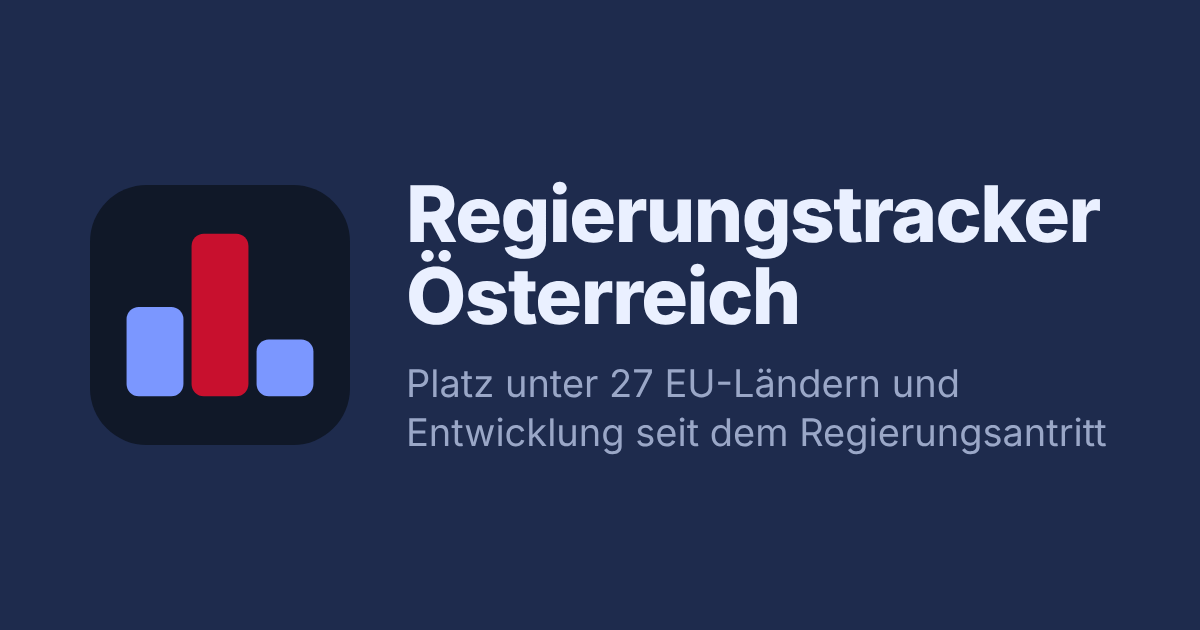
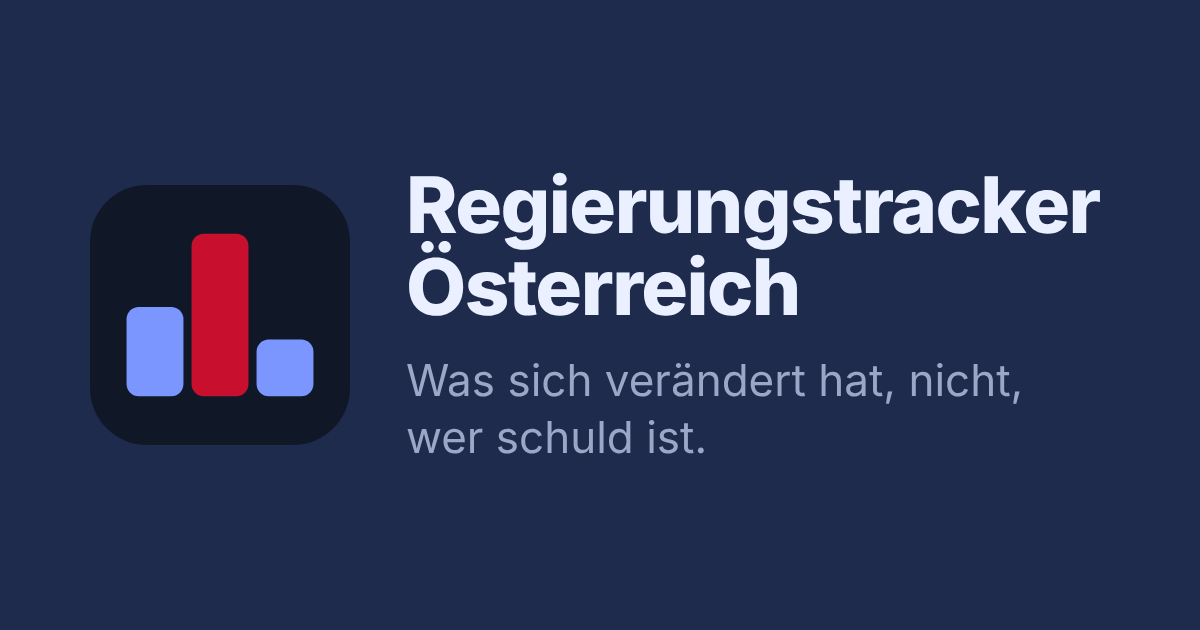
Leitsatz: Was sich verändert hat, nicht, wer schuld ist (Titel, Vorschaubild, Meta)
Claude-Session: https://claude.ai/code/session_01VREGYsAQD5VDTbRsXg6iog

Changed region(s): [[0.3392, 0.2714, 0.925, 0.5127], [0.3392, 0.6635, 0.925, 0.7238], [0.3392, 0.573, 0.8633, 0.6333]]

diff --git a/docs/index.html b/docs/index.html
@@ -11,15 +11,16 @@
 <link rel="apple-touch-icon" href="apple-touch-icon.png">
 <meta property="og:type" content="website">
 <meta property="og:title" content="Regierungstracker Österreich">
-<meta property="og:description" content="Platz unter 27 EU-Ländern und Entwicklung seit dem Regierungsantritt">
+<meta property="og:description" content="Was sich verändert hat, nicht, wer schuld ist. Platz unter 27 EU-Ländern und Entwicklung seit dem Regierungsantritt.">
 <meta property="og:image" content="https://thorusmaximus.github.io/oesterreich-eu-vergleich/vorschau.png">
 <meta name="twitter:card" content="summary_large_image">
-<link rel="stylesheet" href="style.css?v=d86f3418">
+<link rel="stylesheet" href="style.css?v=3637b754">
 </head>
 <body>
 <main>
 <div id="neu"></div>
 <h1 id="h1"><img class="logo" src="favicon.svg" alt="" width="34" height="34"> Regierungstracker Österreich</h1>
+<p class="claim">Was sich verändert hat, nicht, wer schuld ist.</p>
 <p class="frage" id="frage">Wie steht Österreich seit dem Regierungswechsel da?</p>
 <p class="sub" id="sub">Platz unter den EU-Ländern, pro Indikator.</p>
 <div class="zahlen" id="zahlen" hidden></div>

diff --git a/docs/impressum.html b/docs/impressum.html
@@ -10,10 +10,10 @@
 <link rel="apple-touch-icon" href="apple-touch-icon.png">
 <meta property="og:type" content="website">
 <meta property="og:title" content="Regierungstracker Österreich">
-<meta property="og:description" content="Platz unter 27 EU-Ländern und Entwicklung seit dem Regierungsantritt">
+<meta property="og:description" content="Was sich verändert hat, nicht, wer schuld ist. Platz unter 27 EU-Ländern und Entwicklung seit dem Regierungsantritt.">
 <meta property="og:image" content="https://thorusmaximus.github.io/oesterreich-eu-vergleich/vorschau.png">
 <meta name="twitter:card" content="summary_large_image">
-<link rel="stylesheet" href="style.css?v=d86f3418">
+<link rel="stylesheet" href="style.css?v=3637b754">
 </head>
 <body>
 <main>

diff --git a/docs/indikator.html b/docs/indikator.html
@@ -10,10 +10,10 @@
 <link rel="apple-touch-icon" href="apple-touch-icon.png">
 <meta property="og:type" content="website">
 <meta property="og:title" content="Regierungstracker Österreich">
-<meta property="og:description" content="Platz unter 27 EU-Ländern und Entwicklung seit dem Regierungsantritt">
+<meta property="og:description" content="Was sich verändert hat, nicht, wer schuld ist. Platz unter 27 EU-Ländern und Entwicklung seit dem Regierungsantritt.">
 <meta property="og:image" content="https://thorusmaximus.github.io/oesterreich-eu-vergleich/vorschau.png">
 <meta name="twitter:card" content="summary_large_image">
-<link rel="stylesheet" href="style.css?v=d86f3418">
+<link rel="stylesheet" href="style.css?v=3637b754">
 </head>
 <body>
 <main>

diff --git a/docs/methodik.html b/docs/methodik.html
@@ -10,10 +10,10 @@
 <link rel="apple-touch-icon" href="apple-touch-icon.png">
 <meta property="og:type" content="website">
 <meta property="og:title" content="Regierungstracker Österreich">
-<meta property="og:description" content="Platz unter 27 EU-Ländern und Entwicklung seit dem Regierungsantritt">
+<meta property="og:description" content="Was sich verändert hat, nicht, wer schuld ist. Platz unter 27 EU-Ländern und Entwicklung seit dem Regierungsantritt.">
 <meta property="og:image" content="https://thorusmaximus.github.io/oesterreich-eu-vergleich/vorschau.png">
 <meta name="twitter:card" content="summary_large_image">
-<link rel="stylesheet" href="style.css?v=d86f3418">
+<link rel="stylesheet" href="style.css?v=3637b754">
 </head>
 <body>
 <main>

diff --git a/docs/style.css b/docs/style.css
@@ -173,3 +173,4 @@ svg{width:100%;height:auto;display:block}
 @media (max-width:700px){.leiste .fbtn{align-self:stretch;margin-bottom:10px}}
 .row>span:first-child{white-space:nowrap}
 .spk{text-align:right;margin:0 0 6px;font-size:.78rem}
+.claim{margin:0 0 14px;color:var(--mut);font-size:.95rem;font-weight:600}
